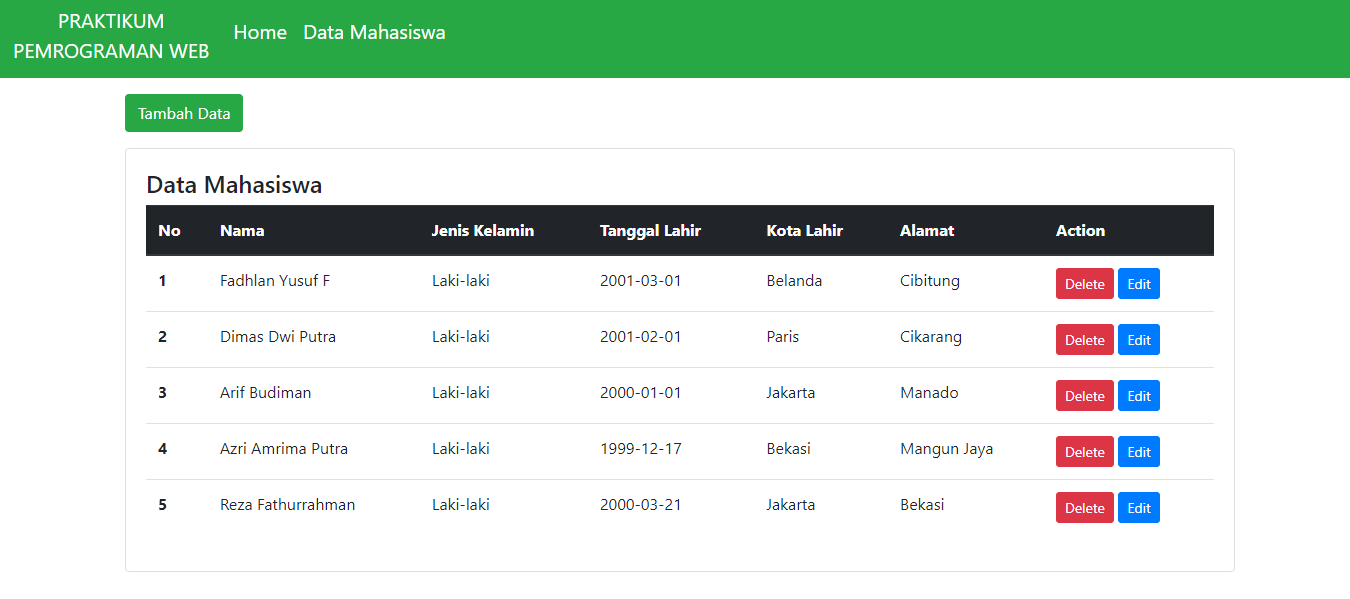
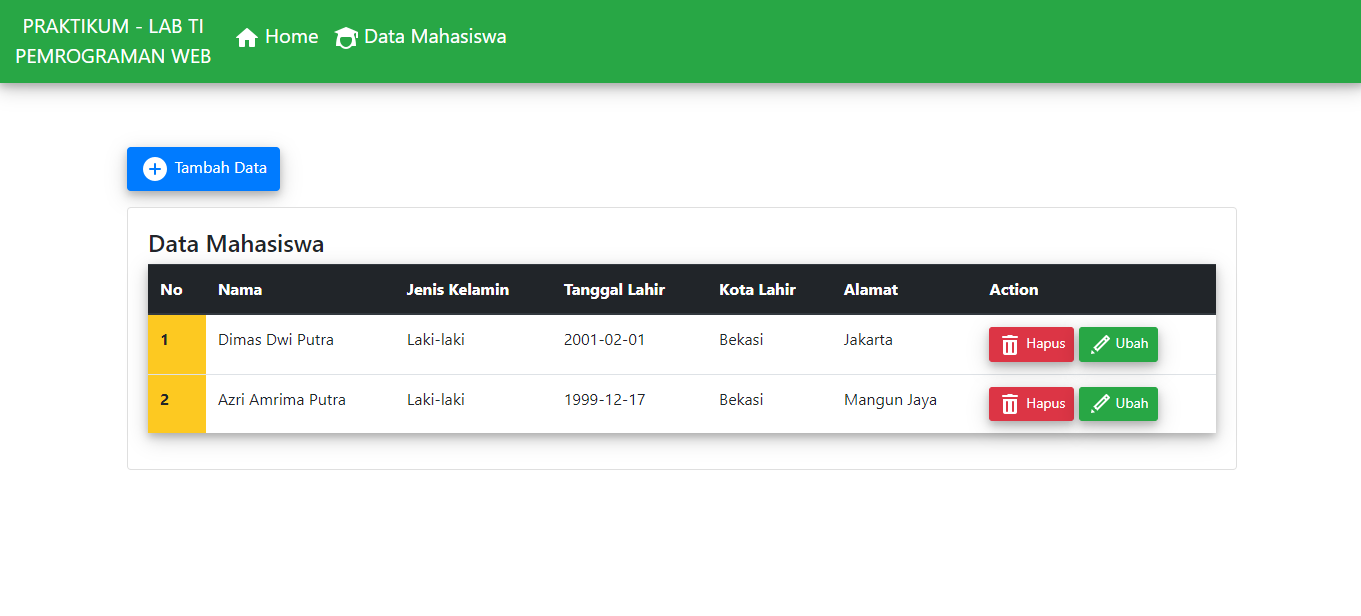
update

diff --git a/application/views/dataMahasiswa.php b/application/views/dataMahasiswa.php
@@ -1,9 +1,11 @@
 <div class="container">
-    <a href="<?= base_url() ?>" class="btn btn-success mt-3"> Tambah Data</a>
+<br>
+<br>
+    <a href="<?= base_url() ?>" class="btn btn-primary mt-3" style="box-shadow: 0 4px 8px 0 rgba(0, 0, 0, 0.2), 0 6px 20px 0 rgba(0, 0, 0, 0.19);"><img src="https://img.icons8.com/ios-glyphs/30/ffffff/add--v1.png"/> Tambah Data</a>
     <div class="card card-body mt-3">
         <h4>Data Mahasiswa</h4>
 
-        <table class="table">
+        <table class="table" style="box-shadow: 0 4px 8px 0 rgba(0, 0, 0, 0.2), 0 6px 20px 0 rgba(0, 0, 0, 0.19);">
             <thead class="thead-dark">
                 <tr>
                     <th scope="col">No</th>
@@ -19,15 +21,15 @@
                 <?php $i = 1;
                 foreach ($mahasiswa as $mhs) : ?>
                     <tr>
-                        <th scope="row"><?= $i++ ?></th>
+                        <th scope="row" style="background-color:#fdc921;"><?= $i++ ?></th>
                         <td><?= $mhs['nama'] ?></td>
                         <td><?= $mhs['jenis_kelamin'] ?></td>
                         <td><?= $mhs['tanggal_lahir'] ?></td>
                         <td><?= $mhs['kota_lahir'] ?></td>
                         <td><?= $mhs['alamat'] ?></td>
                         <td>
-                            <a href="<?= base_url('Kontenweb/deleteData') ?>?id=<?= $mhs['id_mahasiswa'] ?>" class="btn btn-danger btn-sm" onclick="return confirm('are you sure?')">Delete</a>
-                            <button type="button" href="<?= base_url('Kontenweb/editData'); ?>" class="btn btn-primary btn-sm" data-toggle="modal" data-target="#editDataModal<?= $mhs['id_mahasiswa'] ?>">Edit</button>
+                            <a href="<?= base_url('Kontenweb/deleteData') ?>?id=<?= $mhs['id_mahasiswa'] ?>" class="btn btn-danger btn-sm" onclick="return confirm('are you sure?')" style="box-shadow: 0 4px 8px 0 rgba(0, 0, 0, 0.2), 0 6px 20px 0 rgba(0, 0, 0, 0.19);"><img src="https://img.icons8.com/material-rounded/24/ffffff/trash.png"/> Hapus</a>
+                            <button type="button" href="<?= base_url('Kontenweb/editData'); ?>" class="btn btn-success btn-sm" data-toggle="modal" data-target="#editDataModal<?= $mhs['id_mahasiswa'] ?>" style="box-shadow: 0 4px 8px 0 rgba(0, 0, 0, 0.2), 0 6px 20px 0 rgba(0, 0, 0, 0.19);"><img src="https://img.icons8.com/material-outlined/24/ffffff/pencil--v2.png"/> Ubah</button>
                         </td>
                     </tr>
                 <?php endforeach ?>

diff --git a/application/views/bagian/kepala.php b/application/views/bagian/kepala.php
@@ -18,8 +18,8 @@
 
 </head>
 
-<nav class="navbar navbar-expand-lg navbar-dark bg-success">
-    <a class="navbar-brand" href="#" align="center">PRAKTIKUM<br>PEMROGRAMAN WEB</a>
+<nav class="navbar navbar-expand-lg navbar-dark bg-success" style="box-shadow: 0 4px 8px 0 rgba(0, 0, 0, 0.2), 0 6px 20px 0 rgba(0, 0, 0, 0.2);">
+    <a class="navbar-brand" href="#" align="center">PRAKTIKUM - LAB TI<br>PEMROGRAMAN WEB</a>
     <button class="navbar-toggler" type="button" data-toggle="collapse" data-target="#navbarSupportedContent" aria-controls="navbarSupportedContent" aria-expanded="false" aria-label="Toggle navigation">
         <span class="navbar-toggler-icon"></span>
     </button>
@@ -27,10 +27,10 @@
     <div class="collapse navbar-collapse" id="navbarSupportedContent">
         <ul class="navbar-nav mr-auto">
             <li class="nav-item active">
-                <a class="nav-link" href="<?= base_url() ?>"><h5 style="color: white;font-weight: normal;">Home</h5></a>
+                <a class="nav-link" href="<?= base_url() ?>"><h5 style="color: white;font-weight: normal;"><img src="https://img.icons8.com/material-rounded/24/ffffff/home.png"/> Home</h5></a>
             </li>
             <li class="nav-item">
-                <a class="nav-link" href="<?= base_url('Kontenweb/dataMahasiswa') ?>"><h5 style="color: white;font-weight: normal;">Data Mahasiswa</h5></a>
+                <a class="nav-link" href="<?= base_url('Kontenweb/dataMahasiswa') ?>"><h5 style="color: white;font-weight: normal;"><img src="https://img.icons8.com/material-sharp/24/ffffff/student-female.png"/> Data Mahasiswa</h5></a>
             </li>
 			<!--
             <li class="nav-item">

diff --git a/application/views/utama.php b/application/views/utama.php
@@ -1,5 +1,5 @@
 <div class="container mt-5">
-    <div class="card card-body border-info col-6 mx-auto">
+    <div class="card card-body border-info col-6 mx-auto" style="box-shadow: 0 4px 8px 0 rgba(0, 0, 0, 0.2), 0 6px 20px 0 rgba(0, 0, 0, 0.19);">
         <form action="<?= base_url('Kontenweb/addData') ?>" method="post">
             <h4 class="text-center">Biodata Siswa</h4>
             <div class="form-group">
